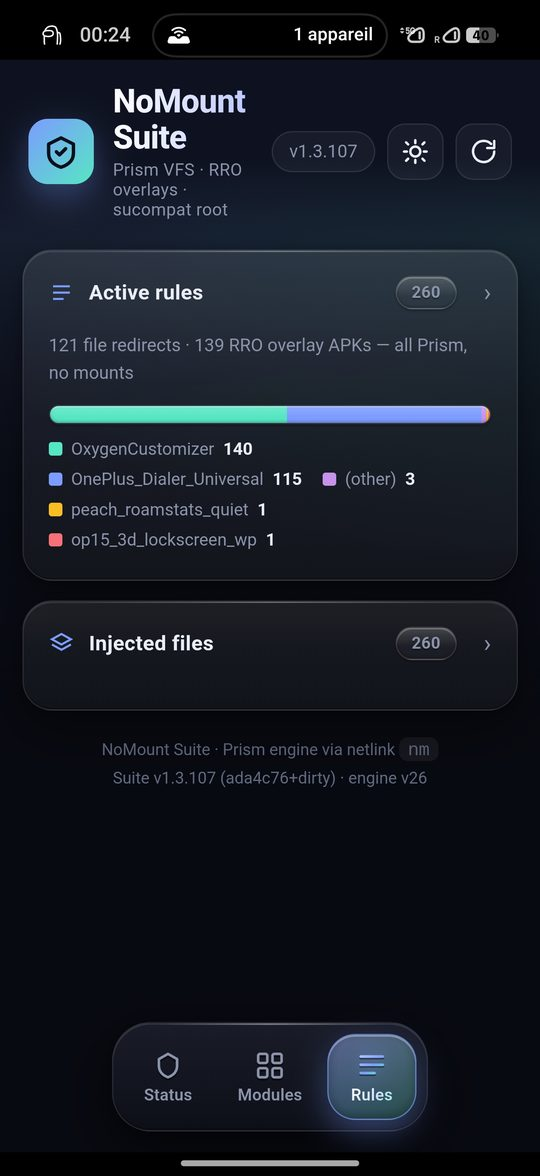
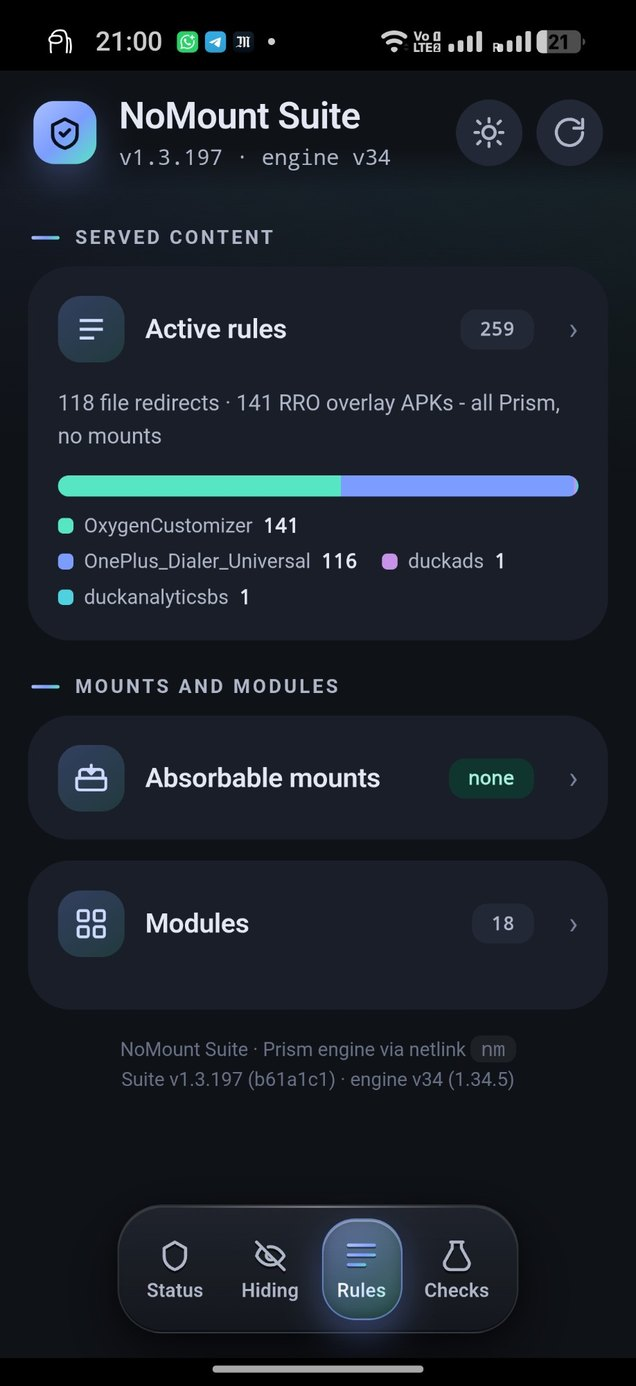
updates

diff --git a/README.md b/README.md
@@ -60,17 +60,17 @@ Most hiding solutions **mount** something — an `overlayfs` or bind mount — t
 <table>
   <tr>
     <td align="center"><a href="https://github.com/Bouteillepleine/OnePlus-KsuNext_NMS/blob/NoMount/docs/screenshots/status.jpg"><img src="https://raw.githubusercontent.com/Bouteillepleine/OnePlus-KsuNext_NMS/NoMount/docs/screenshots/status.jpg" width="155" alt="Status"></a></td>
-    <td align="center"><a href="https://github.com/Bouteillepleine/OnePlus-KsuNext_NMS/blob/NoMount/docs/screenshots/modules.jpg"><img src="https://raw.githubusercontent.com/Bouteillepleine/OnePlus-KsuNext_NMS/NoMount/docs/screenshots/modules.jpg" width="155" alt="Modules"></a></td>
+    <td align="center"><a href="https://github.com/Bouteillepleine/OnePlus-KsuNext_NMS/blob/NoMount/docs/screenshots/hiding.jpg"><img src="https://raw.githubusercontent.com/Bouteillepleine/OnePlus-KsuNext_NMS/NoMount/docs/screenshots/hiding.jpg" width="155" alt="Hiding"></a></td>
     <td align="center"><a href="https://github.com/Bouteillepleine/OnePlus-KsuNext_NMS/blob/NoMount/docs/screenshots/rules.jpg"><img src="https://raw.githubusercontent.com/Bouteillepleine/OnePlus-KsuNext_NMS/NoMount/docs/screenshots/rules.jpg" width="155" alt="Rules"></a></td>
-    <td align="center"><a href="https://github.com/Bouteillepleine/OnePlus-KsuNext_NMS/blob/NoMount/docs/screenshots/check.jpg"><img src="https://raw.githubusercontent.com/Bouteillepleine/OnePlus-KsuNext_NMS/NoMount/docs/screenshots/check.jpg" width="155" alt="Check"></a></td>
+    <td align="center"><a href="https://github.com/Bouteillepleine/OnePlus-KsuNext_NMS/blob/NoMount/docs/screenshots/diagnostics.jpg"><img src="https://raw.githubusercontent.com/Bouteillepleine/OnePlus-KsuNext_NMS/NoMount/docs/screenshots/diagnostics.jpg" width="155" alt="Checks"></a></td>
     <td align="center"><a href="https://github.com/Bouteillepleine/OnePlus-KsuNext_NMS/blob/NoMount/docs/screenshots/duckdetector.jpg"><img src="https://raw.githubusercontent.com/Bouteillepleine/OnePlus-KsuNext_NMS/NoMount/docs/screenshots/duckdetector.jpg" width="155" alt="Duck Detector"></a></td>
   </tr>
   <tr>
-    <td align="center"><sub><b>Status</b><br>zero mounts, live counts</sub></td>
-    <td align="center"><sub><b>Modules</b><br>what is served, and how</sub></td>
-    <td align="center"><sub><b>Rules</b><br>per-module rule breakdown</sub></td>
-    <td align="center"><sub><b>Check</b><br>one diagnostic, plain verdicts</sub></td>
-    <td align="center"><sub><b>Duck Detector</b><br>0 danger, 0 warning</sub></td>
+    <td align="center"><sub><b>Status</b></sub></td>
+    <td align="center"><sub><b>Hiding</b></sub></td>
+    <td align="center"><sub><b>Rules</b></sub></td>
+    <td align="center"><sub><b>Checks</b></sub></td>
+    <td align="center"><sub><b>Duck Detector</b></sub></td>
   </tr>
 </table>
 
